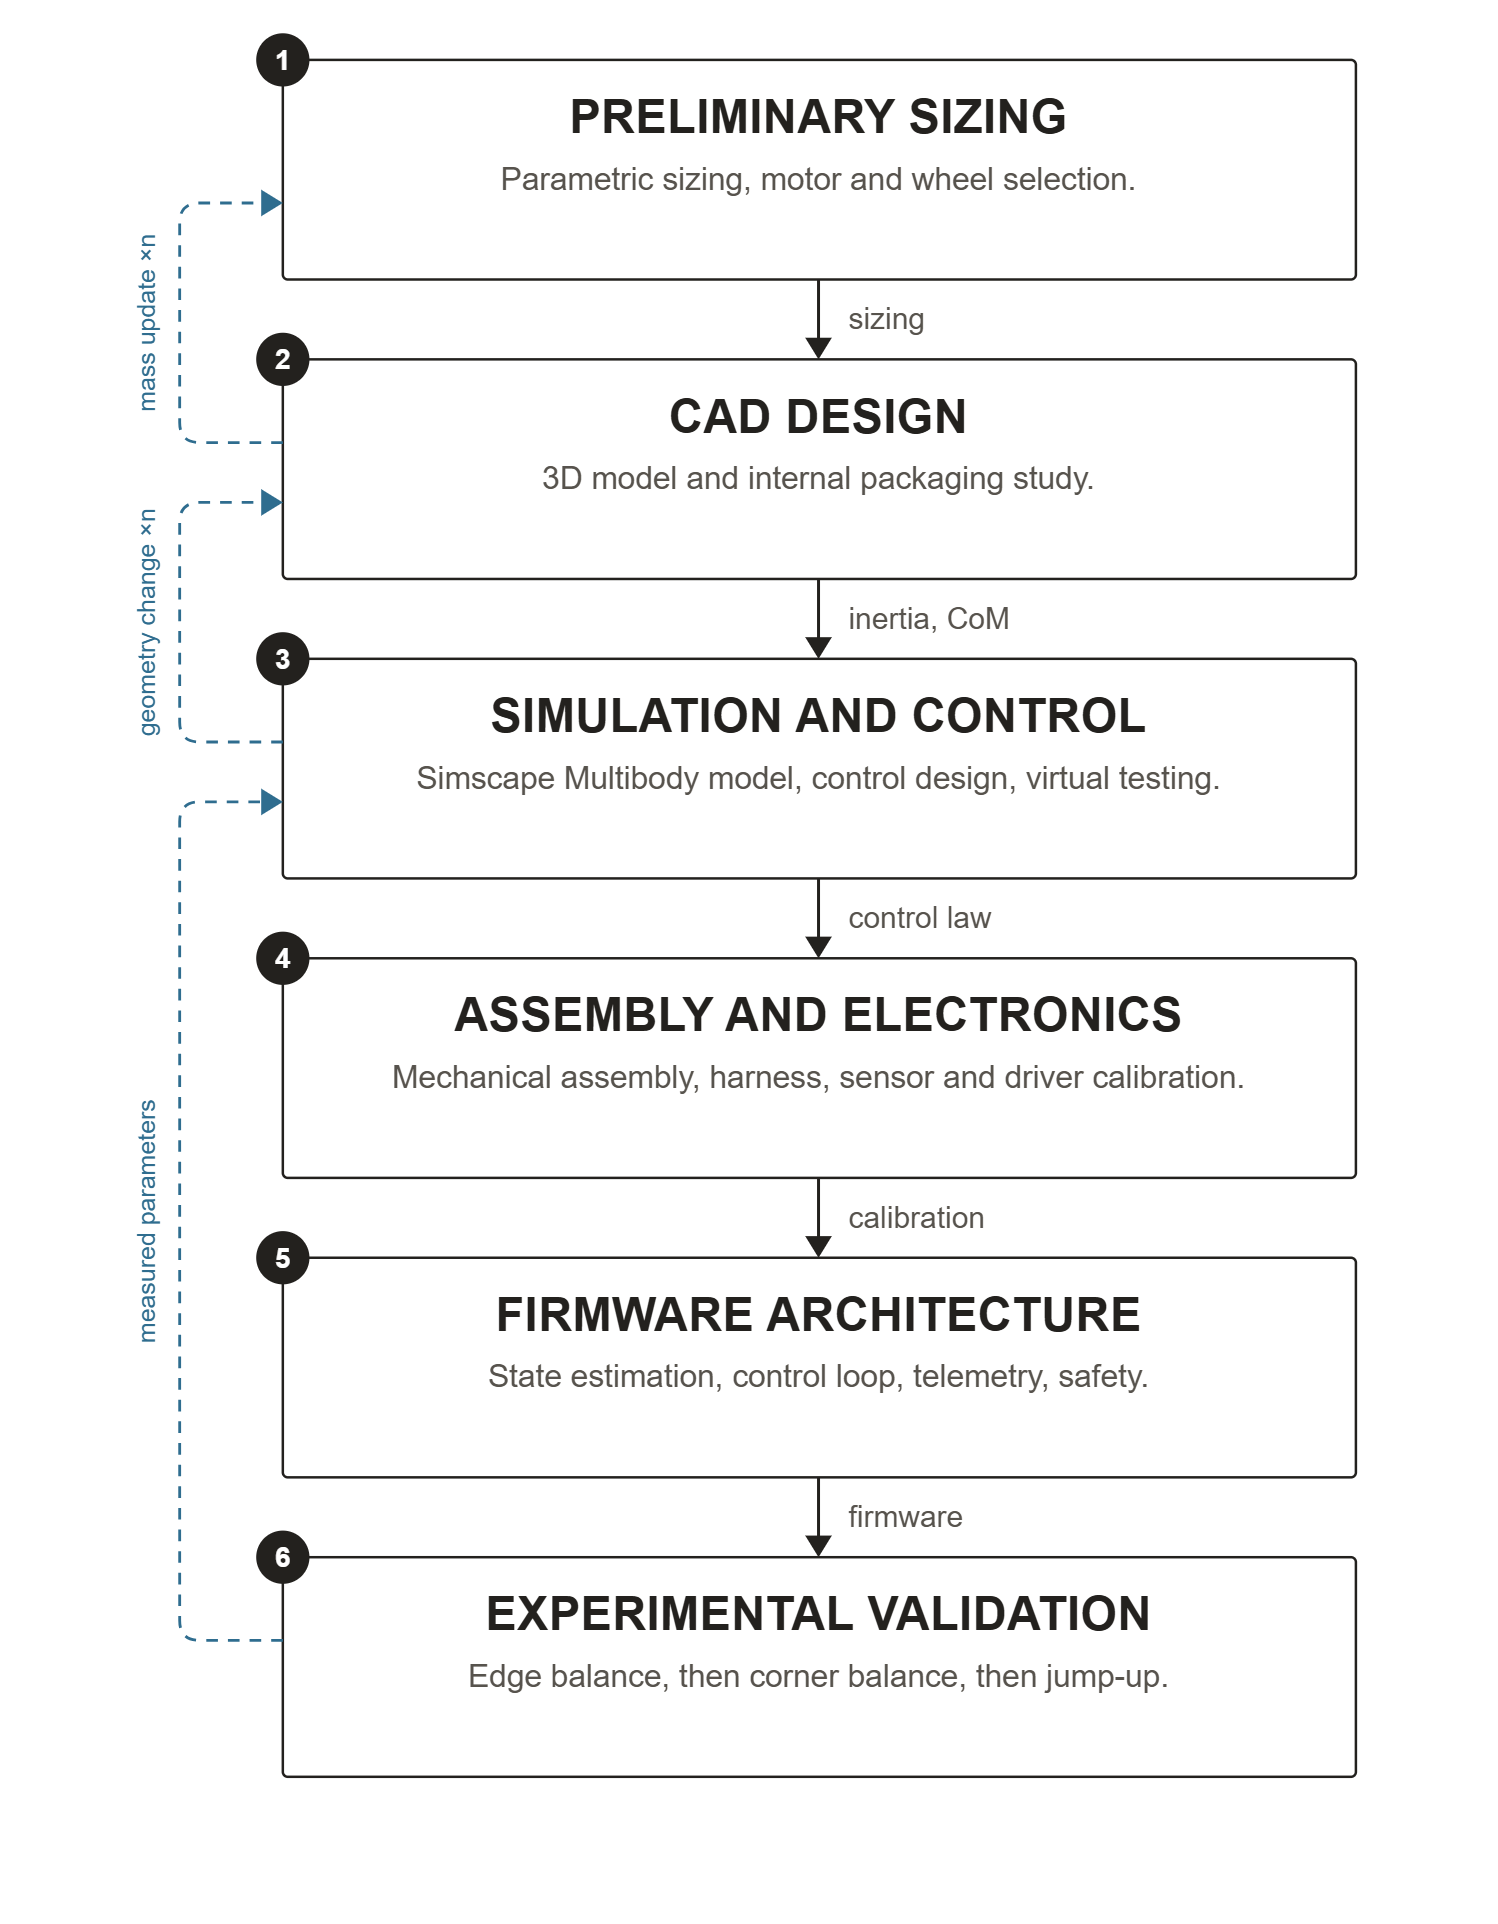
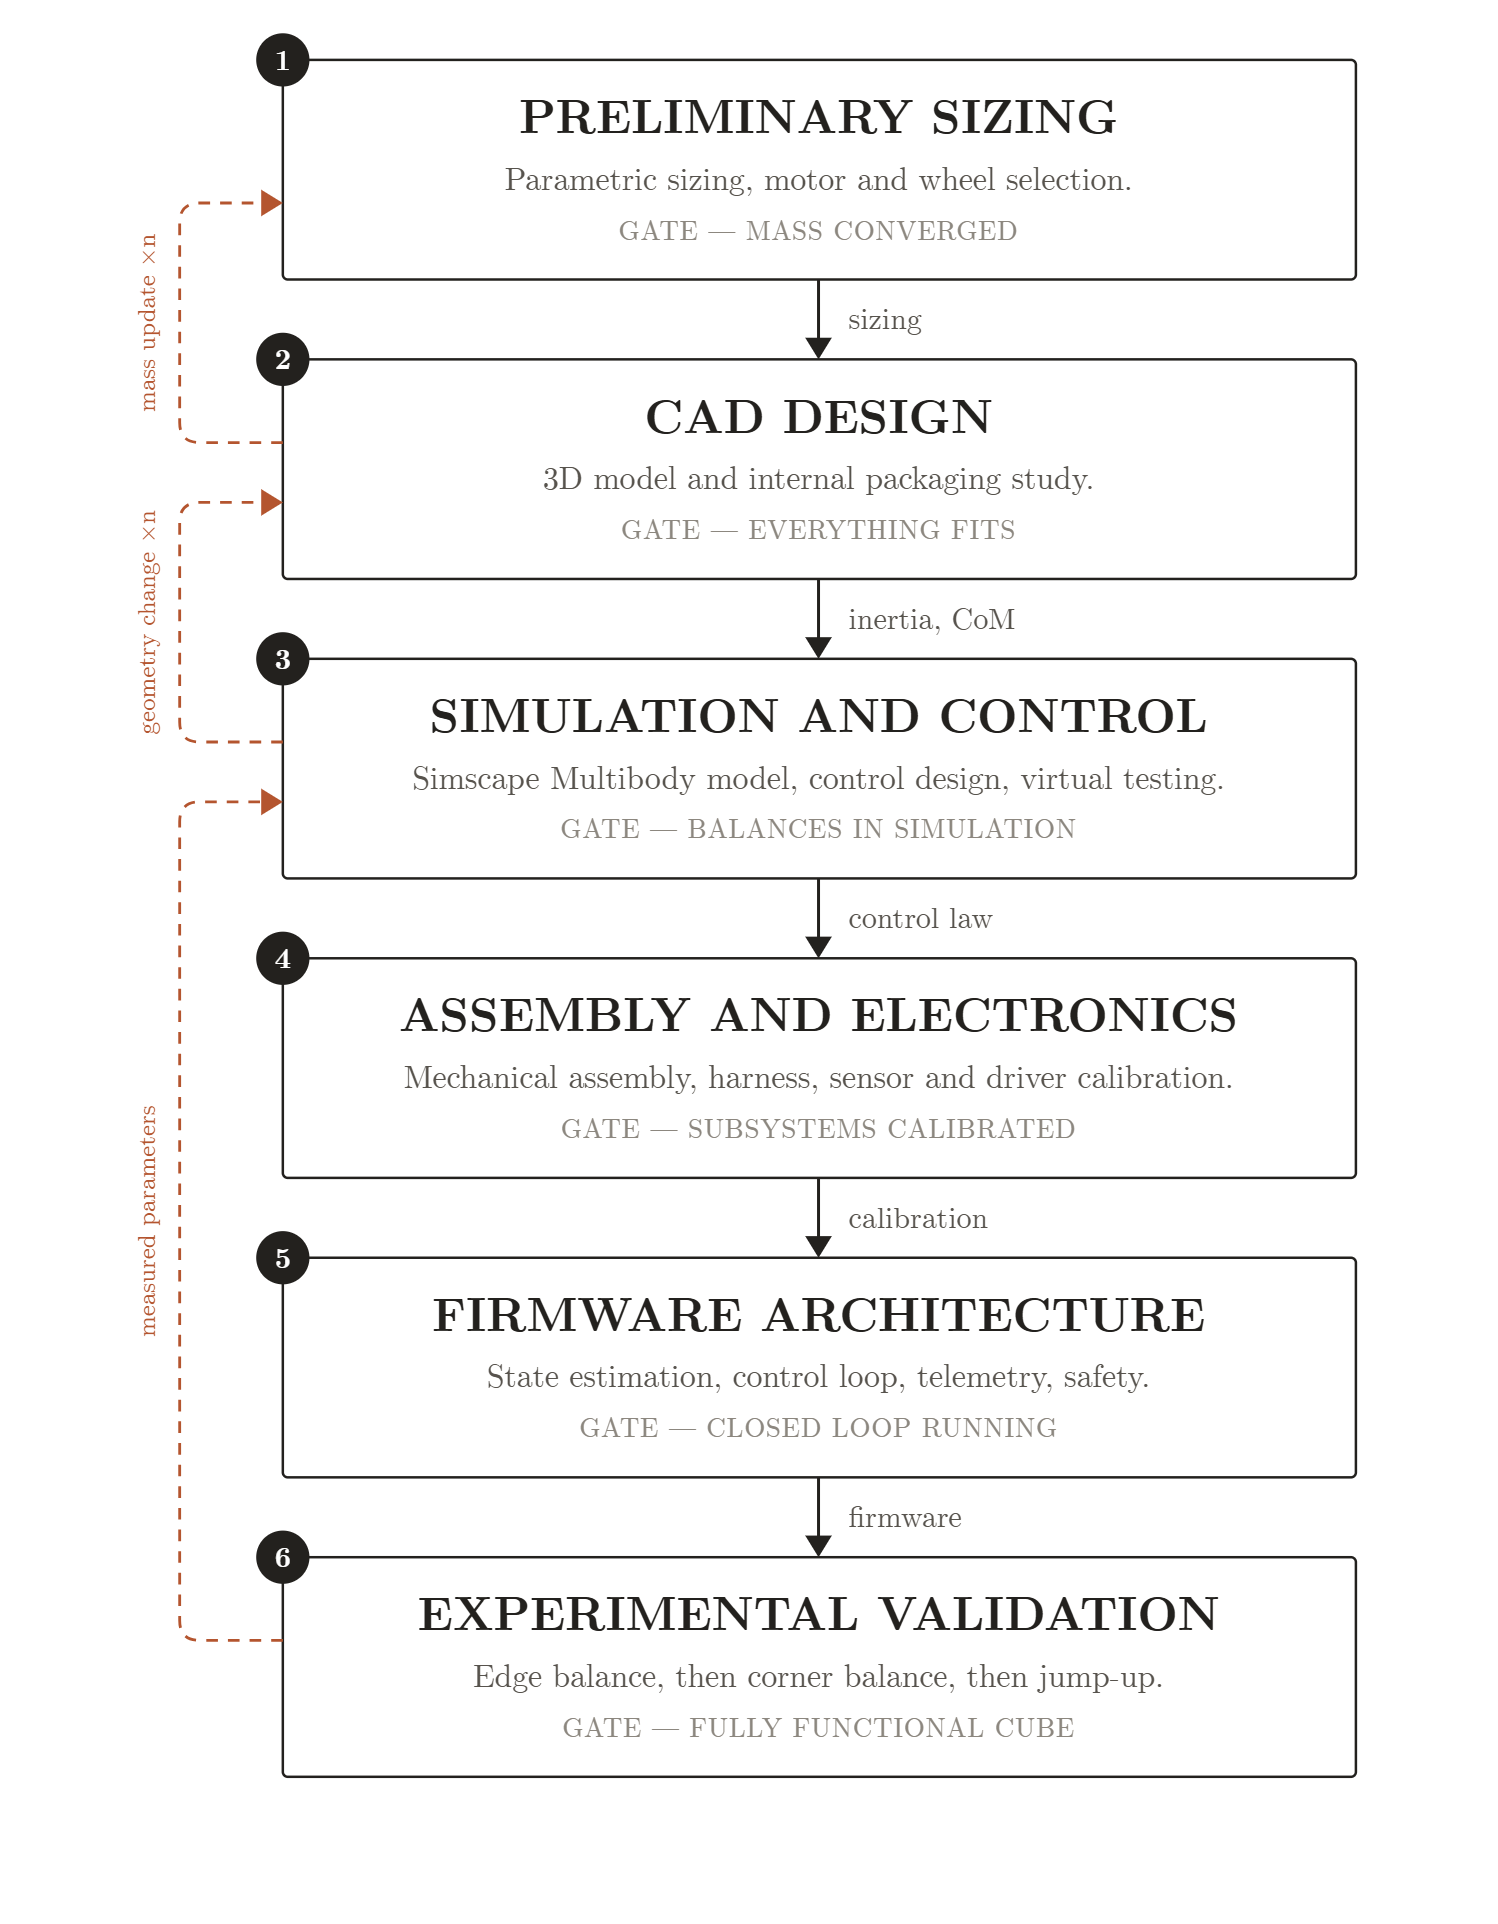
.

diff --git a/sections/03_preliminary_sizing.tex b/sections/03_preliminary_sizing.tex
@@ -67,14 +67,19 @@ process.
 \subsubsection{Torque-Limited Wheel-Inertia Target}
 \label{sec:jumpup_target}
 
-Sizing follows the forward chain
-\[
-(M, L)\;\longrightarrow\;h_{w,\text{ideal}}\;\longrightarrow\;\beta
-\;\longrightarrow\;h_w\;\longrightarrow\;
-I_{w,\text{target}}=\frac{h_w}{\omega_{\max}}\;\longrightarrow\;
-\text{wheel geometry (Section~\ref{sec:rw_sizing})},
-\]
-with $\omega_{\max}$ held fixed throughout.
+Sizing follows the forward chain of Figure~\ref{fig:sizing_chain}: cube
+parameters fix an ideal wheel momentum, a geometric/contact factor inflates it
+to a design momentum, and the design momentum converts to the target wheel
+inertia that Section~\ref{sec:rw_sizing} sizes the wheel geometry against, with
+$\omega_{\max}$ held fixed at every step.
+
+\begin{figure}[htbp]
+\centering
+\includegraphics[width=0.9\linewidth]{images/sizing_chain_diagram.png}
+\caption[Wheel-inertia sizing chain]{Wheel-inertia sizing chain.}
+\label{fig:sizing_chain}
+\end{figure}
+
 Equation~\eqref{eq:omega_required} assumes an instantaneous, lossless momentum
 transfer; the momentum budget below relaxes that assumption by accounting for
 finite brake torque. Its first step is an ideal per-wheel angular momentum:
